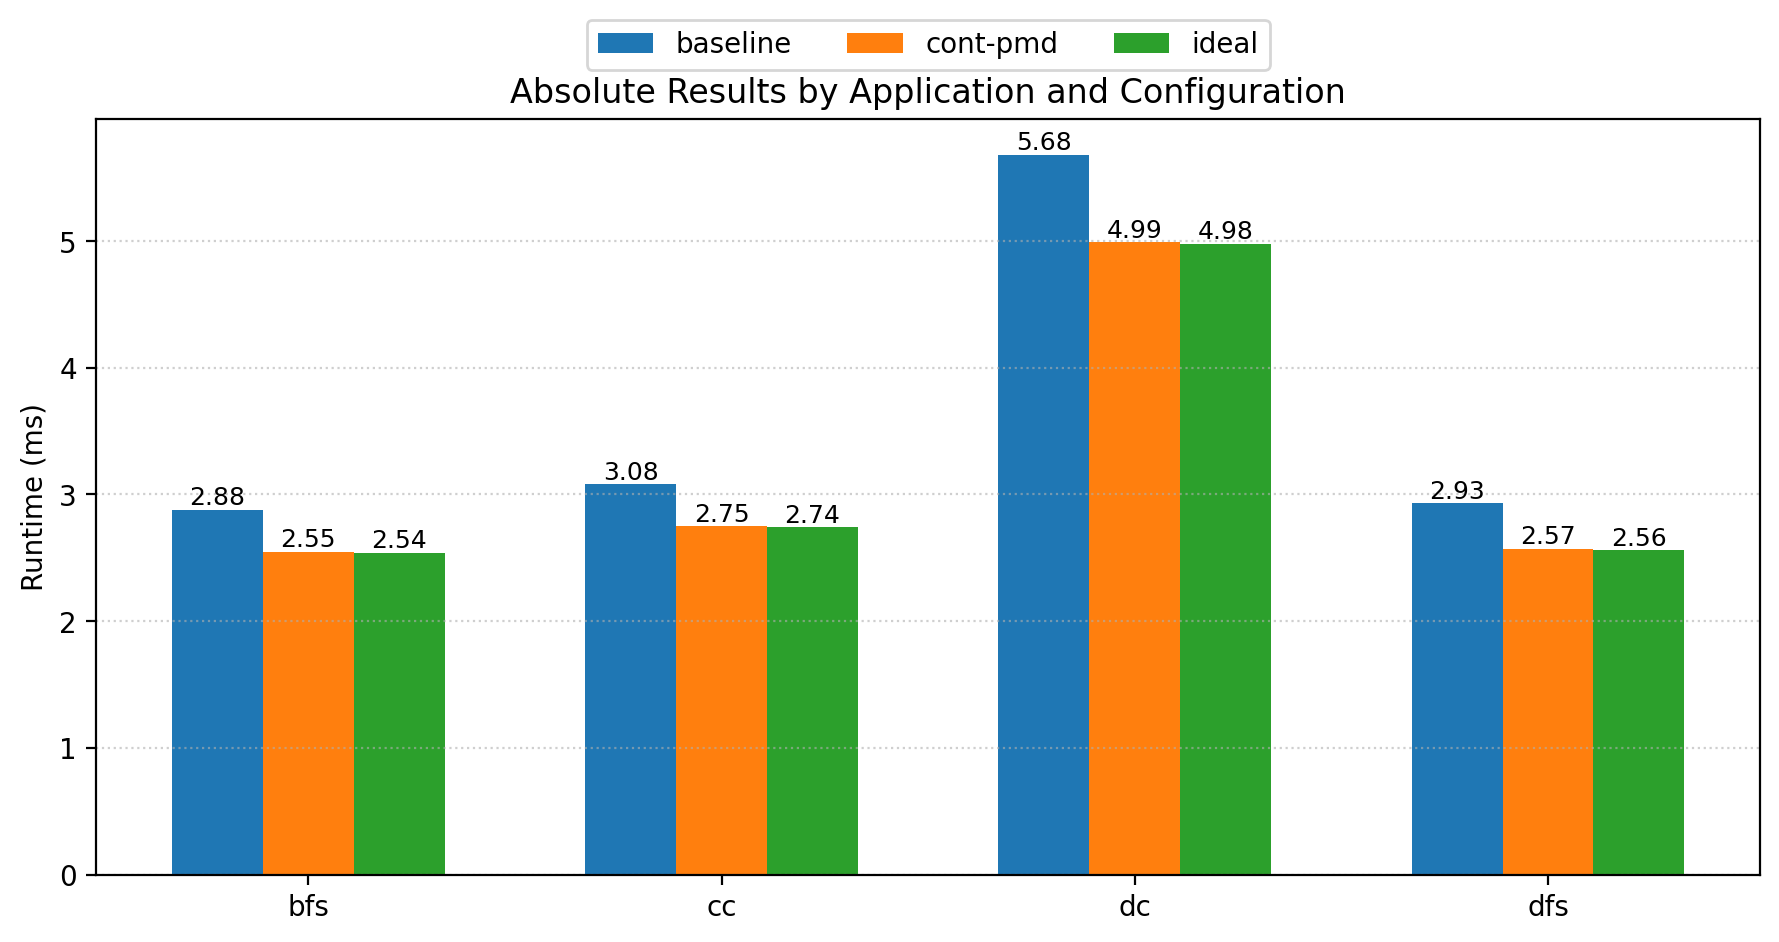
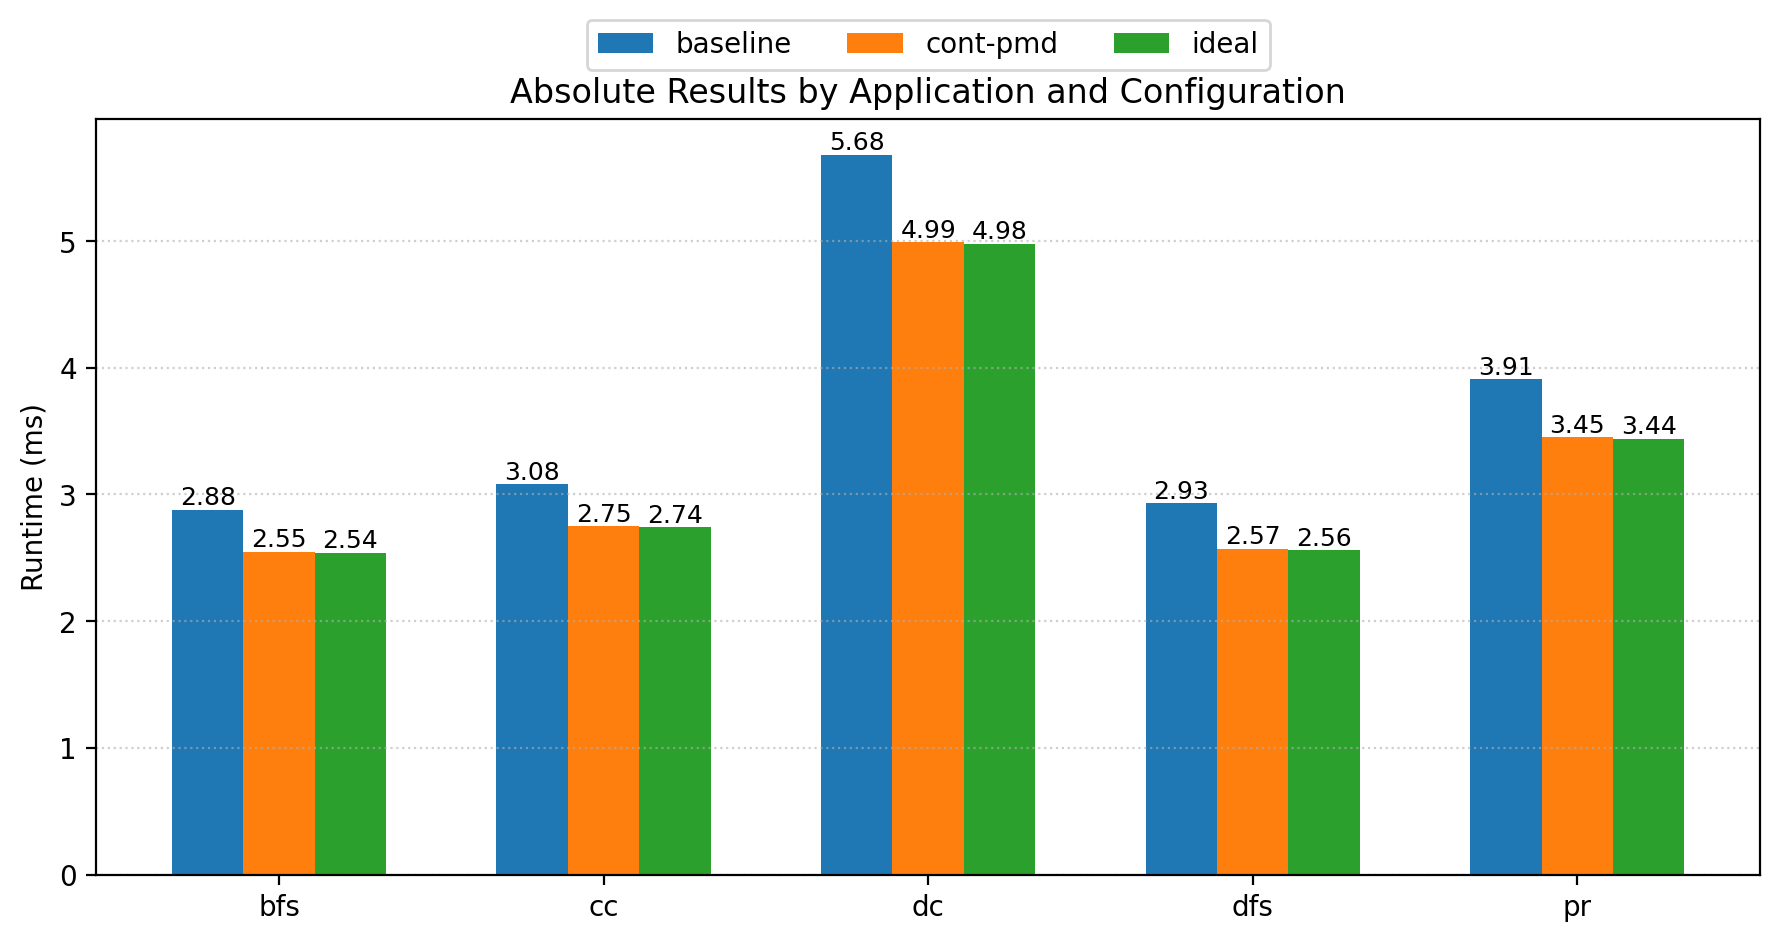
add page rank

diff --git a/plot-res.py b/plot-res.py
@@ -27,12 +27,14 @@ DATA = OrderedDict({
     "cc":   [3.08, 2.76, 2.74],
     "dc":   [5.68,  5.03,  4.98],
     "dfs":  [2.93, 2.63, 2.56],
+    "pr":  [3.91, 3.48, 3.44]
 })
 DATA = OrderedDict({
     "bfs":  [2.88, 2.55, 2.54],   # [baseline, cont-pmd, ideal]
     "cc":   [3.08, 2.75, 2.74],
     "dc":   [5.68,  4.99,  4.98],
     "dfs":  [2.93, 2.57, 2.56],
+    "pr":  [3.91, 3.45, 3.44]
 })
 
 APPS = ["bfs", "cc", "dc", "dfs"]

diff --git a/trace_check.py b/trace_check.py
@@ -146,4 +146,15 @@ Distinct first-2-digit prefixes: 4
 36 : 12052 --> 0.03%
 43 : 1196 --> 0.00%
 total = 38965742
+
+PageRank
+=== PMD prefix stats ===
+Distinct first-2-digit prefixes: 4
+48 : 69217020 --> 99.66%
+2a : 201208 --> 0.29%
+36 : 32448 --> 0.05%
+43 : 2285 --> 0.00%
+total = 69452961
+
+
 '''
